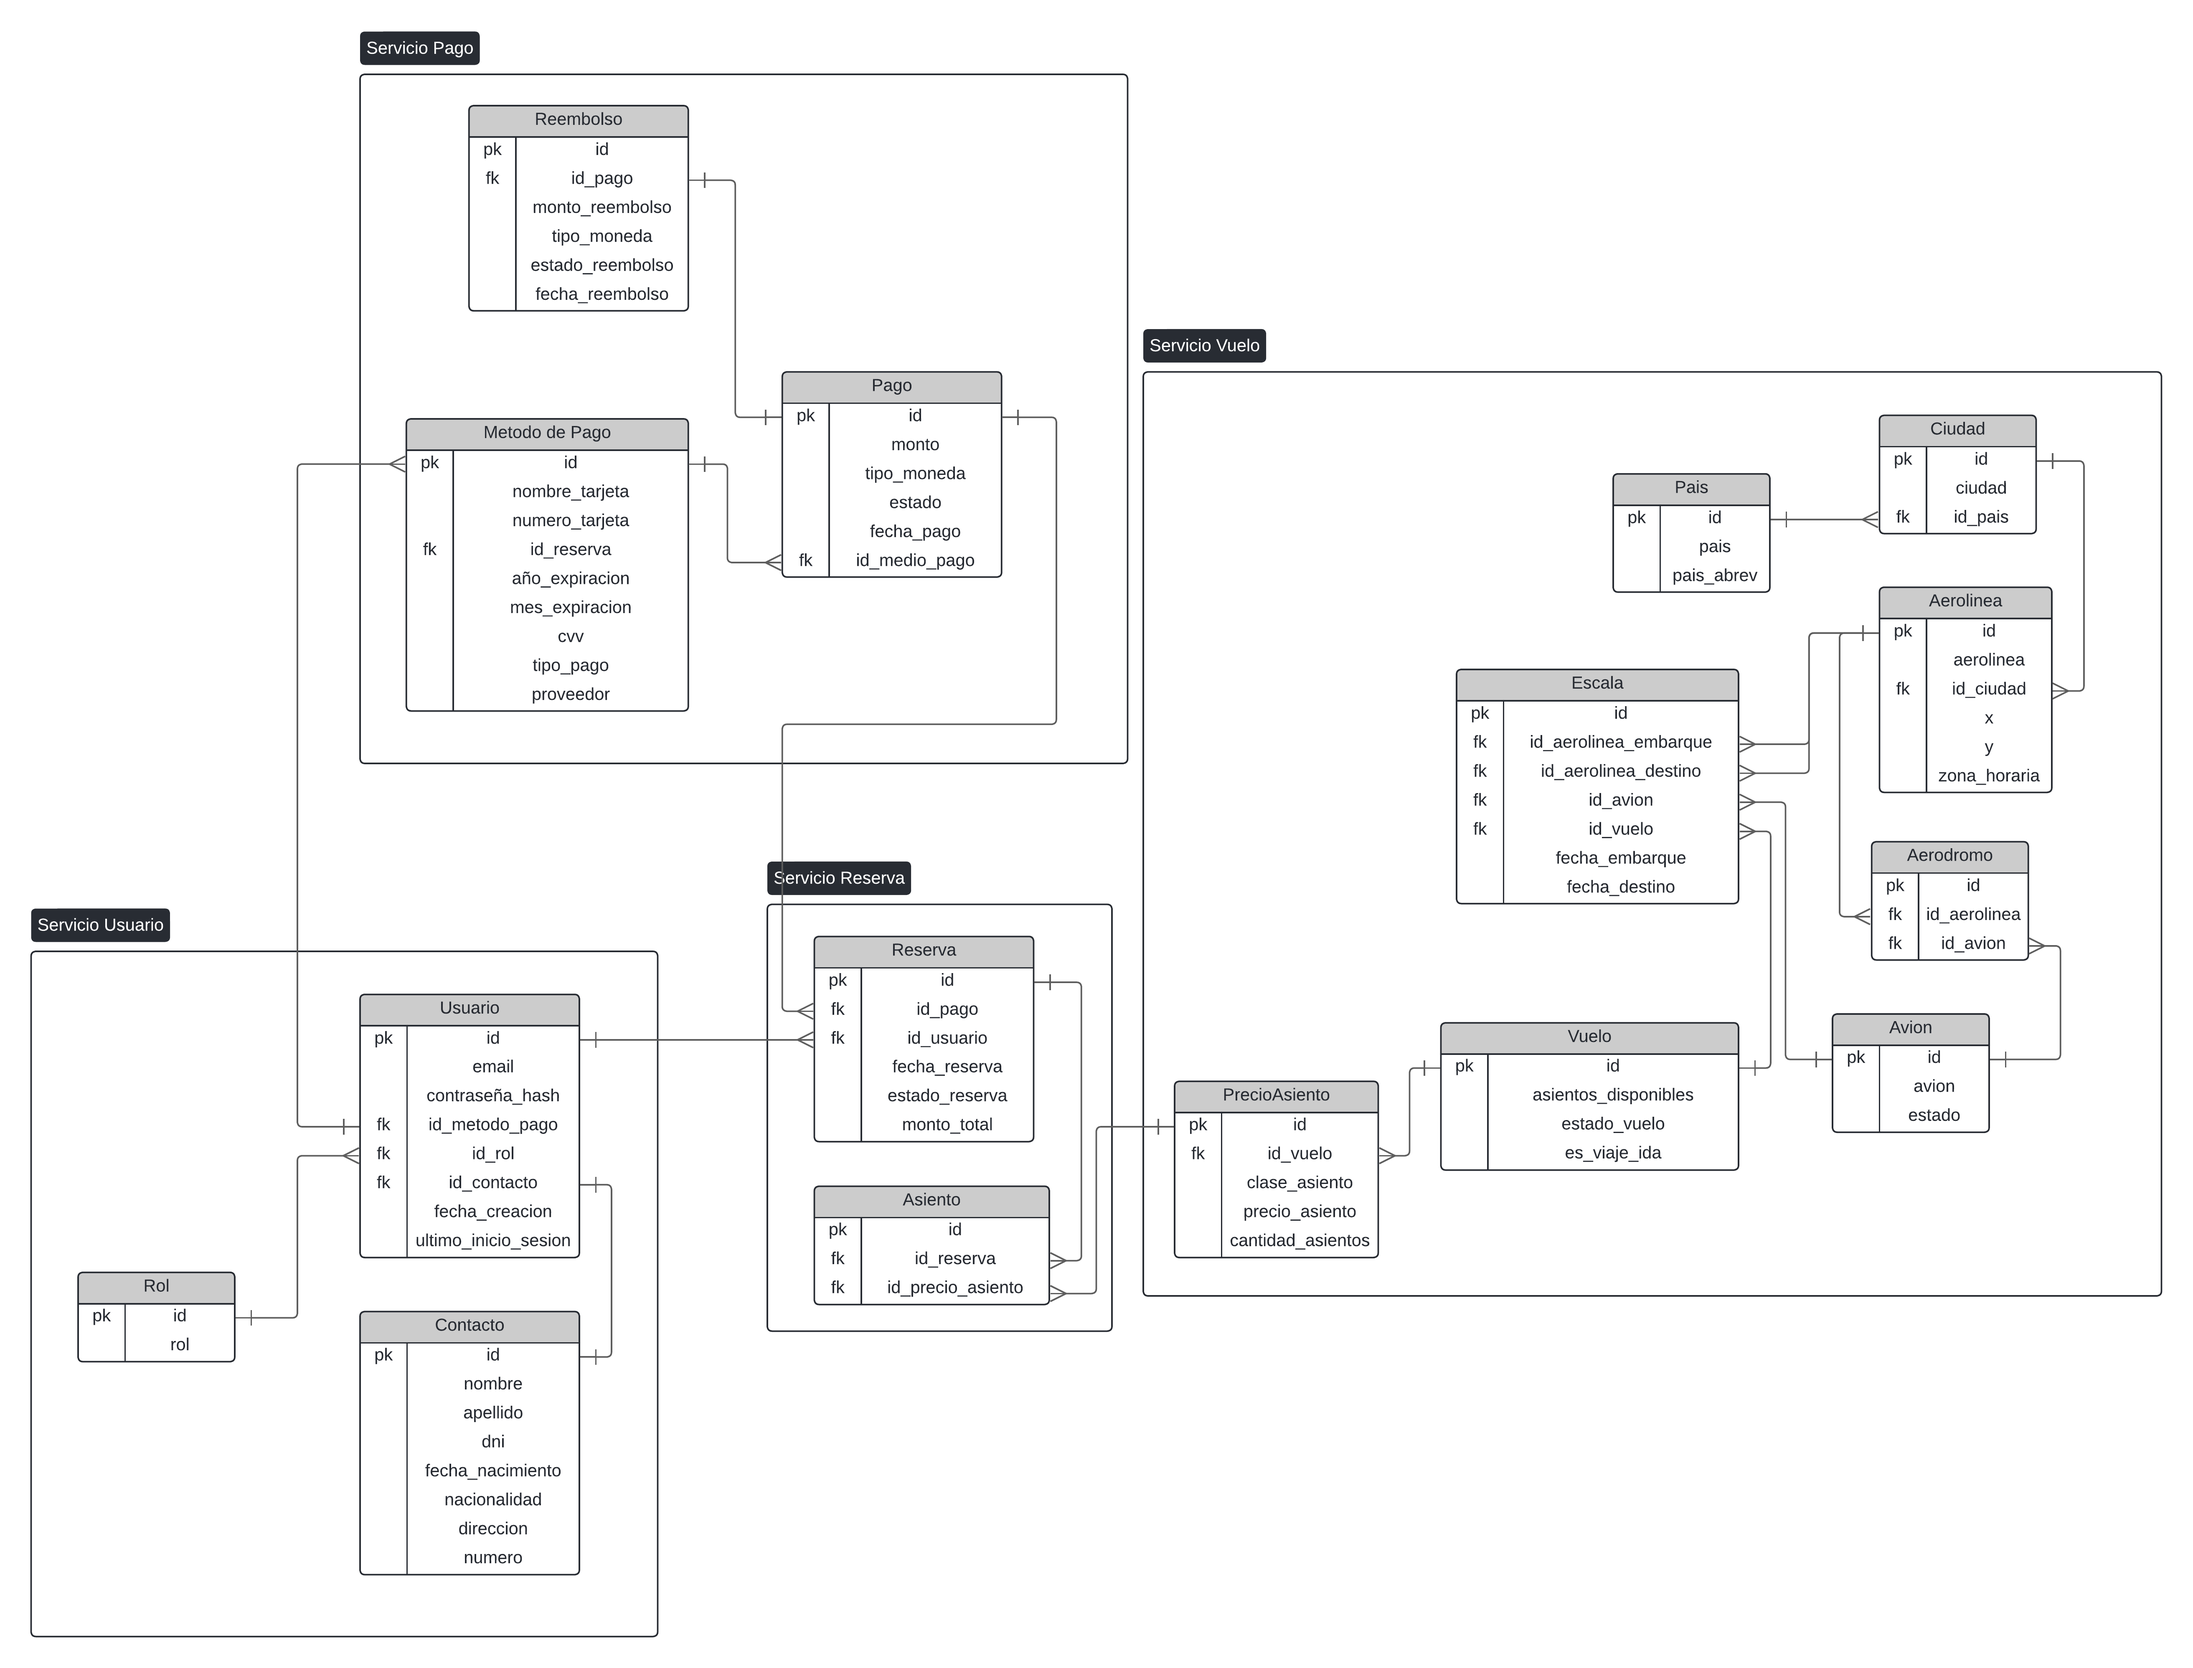
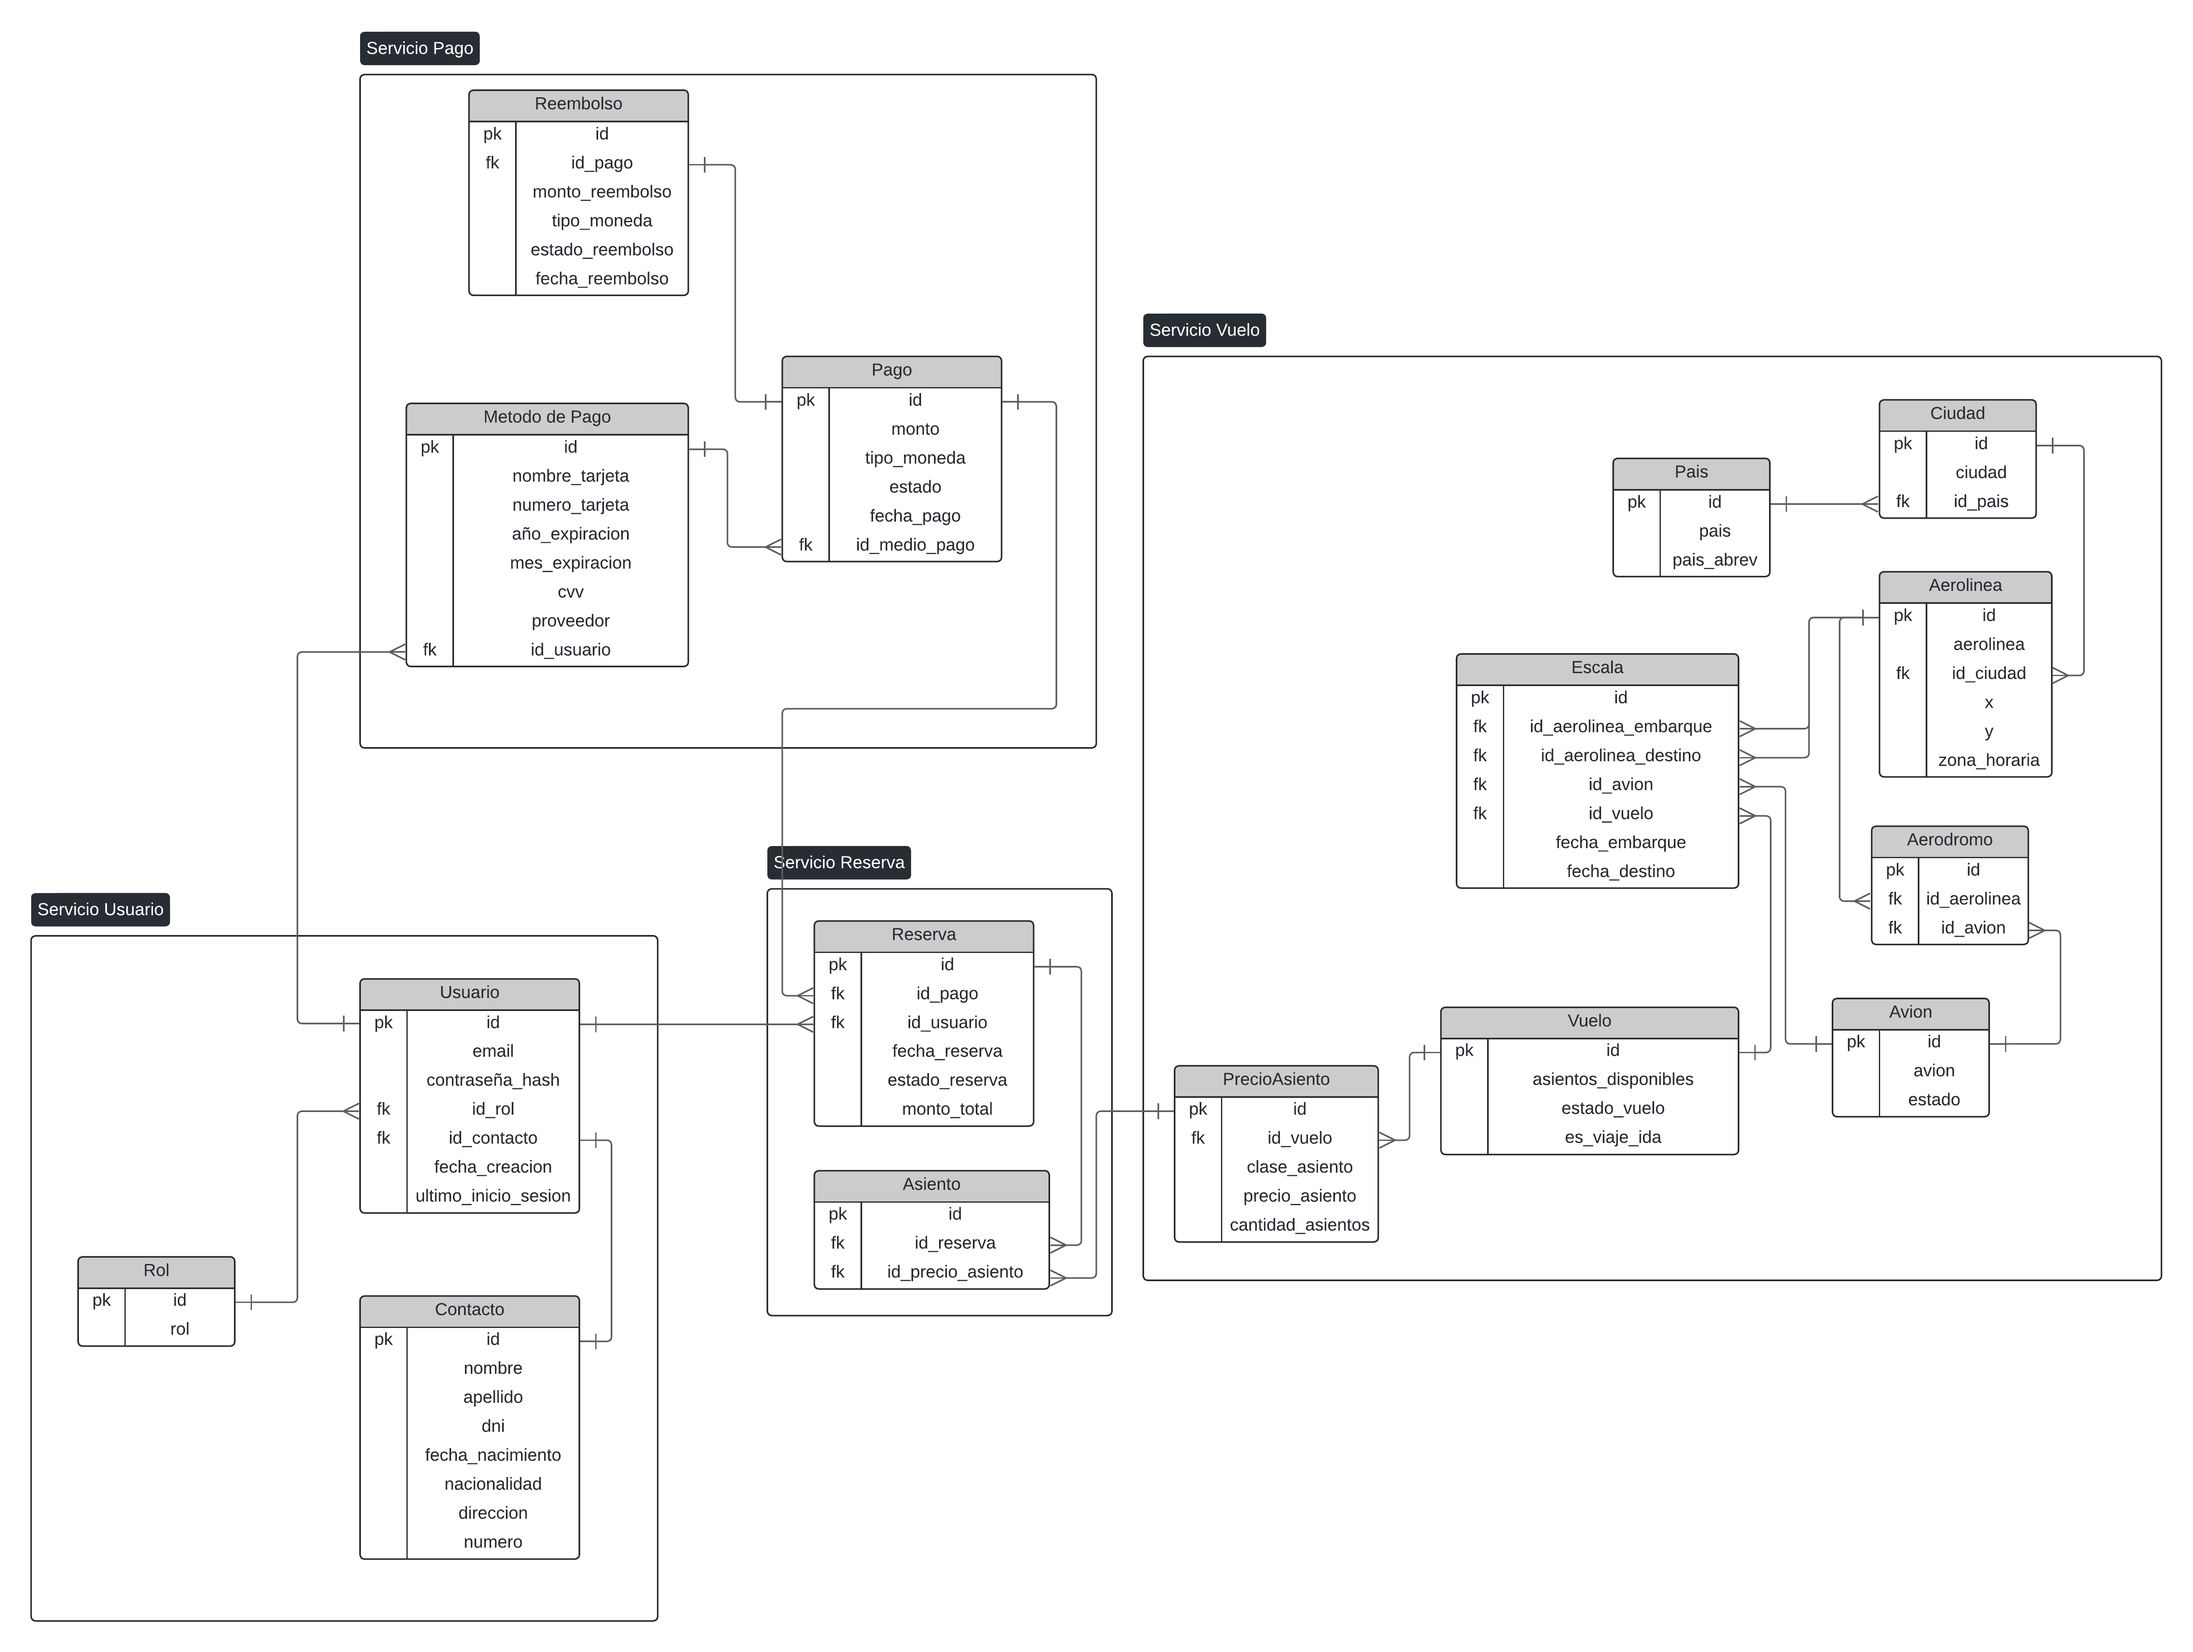
Cambiando img de bd a version final

diff --git a/backend/yocos-airlines/README.md b/backend/yocos-airlines/README.md
@@ -1,4 +1,4 @@
 # Backend
 
 
-![Base de datos v1.5](img.png)
+![Base de datos final](img.png)
